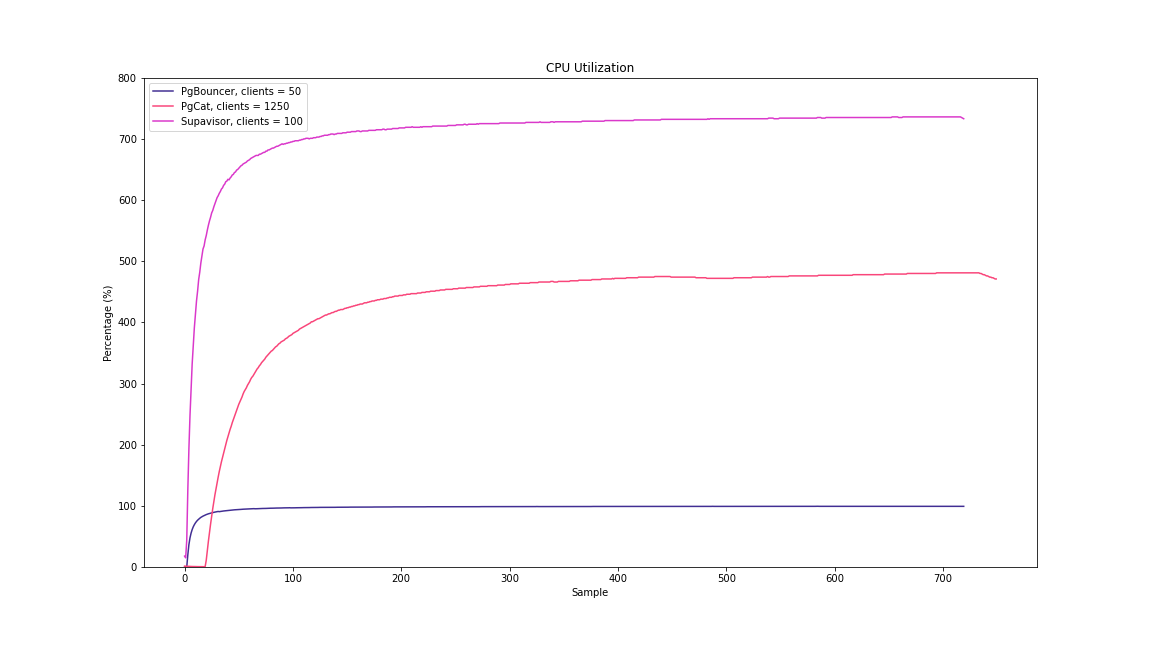
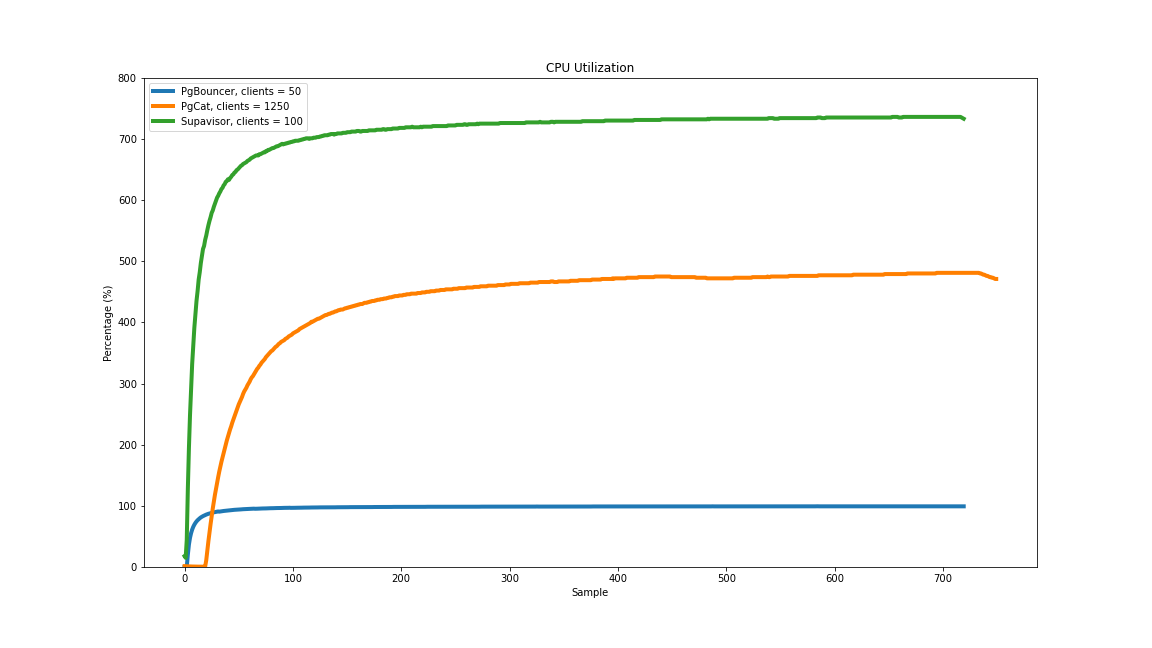
Add more updates

diff --git a/landing/src/content/blog/2024-02-13-connection-poolers/index.md b/landing/src/content/blog/2024-02-13-connection-poolers/index.md
@@ -80,7 +80,7 @@ I used separate machines to give the connection pooler and pgbench enough CPU/Me
 
 The VMs were Google Cloud’s E2-standard-8 (8 vCPUs, 4 cores, 32GB memory), all in the same zone. The OS was Debian 11.8. Postgres version was 15.5. 
 
-I configured the three poolers to create a pool of 100 connections and the workload was generated using PgBench. I collected the outputs and analyzed them. For the exact details of my experiments to replicate them, please refer to this [github repository](https://github.com/binidxaba/postgres-conn-poolers-comparison). 
+I configured the three poolers to create a pool of 100 connections and the workload was generated using PgBench. In all cases, the pooler was configured for **Transaction mode**. I collected the outputs and analyzed them. For the exact details of my experiments to replicate them, please refer to this [github repository](https://github.com/binidxaba/postgres-conn-poolers-comparison). 
 
 
 ## Results
@@ -201,6 +201,10 @@ PgBouncer offers the best latency for low (<50) connection counts. However, its 
 So, according to these experiments, PgCat shows like it’s the best option when you have high connection counts.
 
 Thank you for reading until this point, dear reader. I hope you find these insights helpful. Also, I am curious: which connection pooler are you currently using and why? What other factors did you consider before making that decision? Let us know your comments at [@tembo_io](https://twitter.com/tembo_io).
+
+**Update (2024/02/14): Made it clear that the experiments use Transaction mode.**
+
+**Update (2024/02/14): Updated the line plots in "Throughput and Latency for large connection count" for better visibility.**
 
 **Update (2024/02/14): In a follow up post, we shall compare the three connection poolers using prepared statements. Please, stay tuned!**
 
